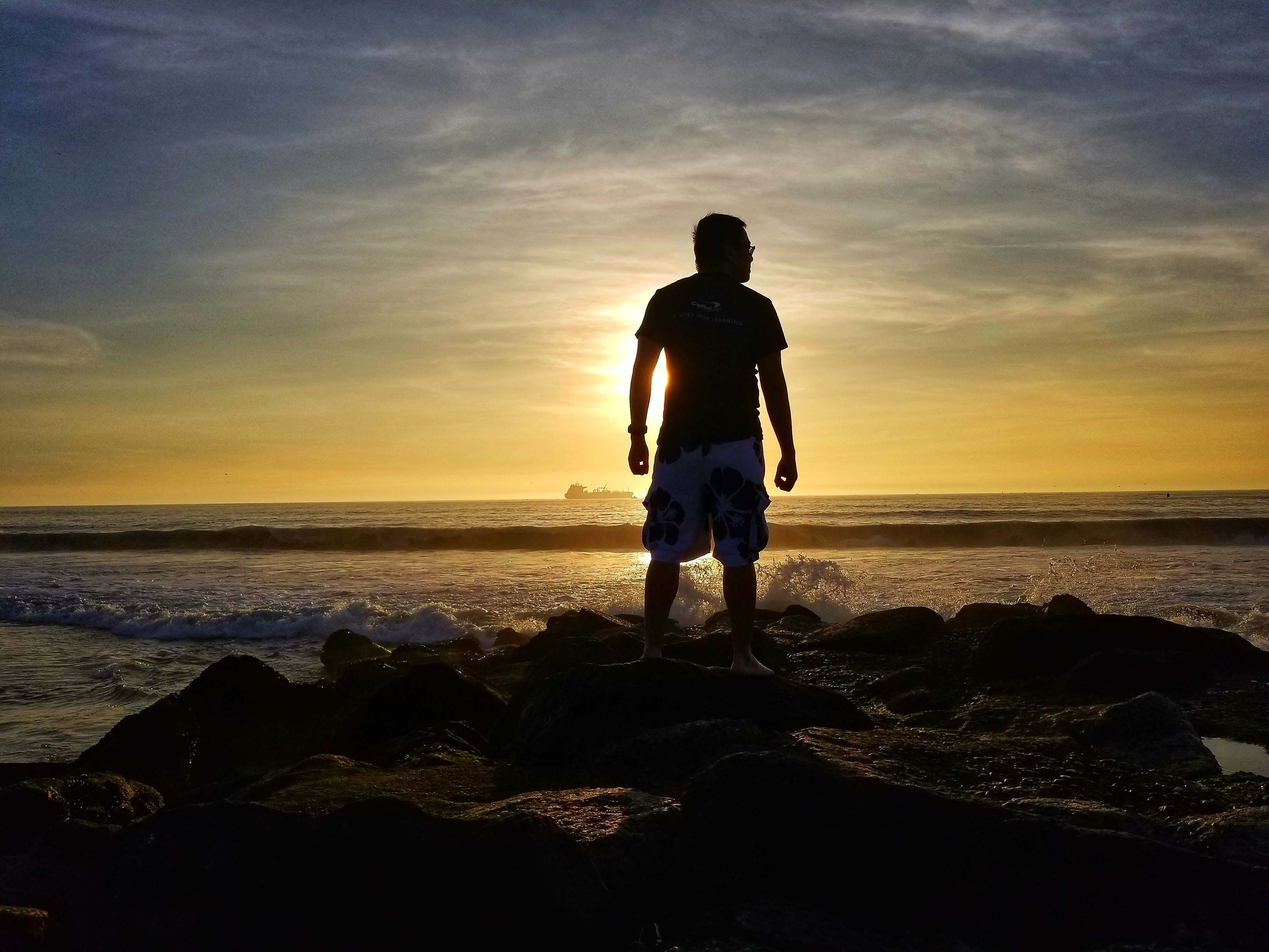
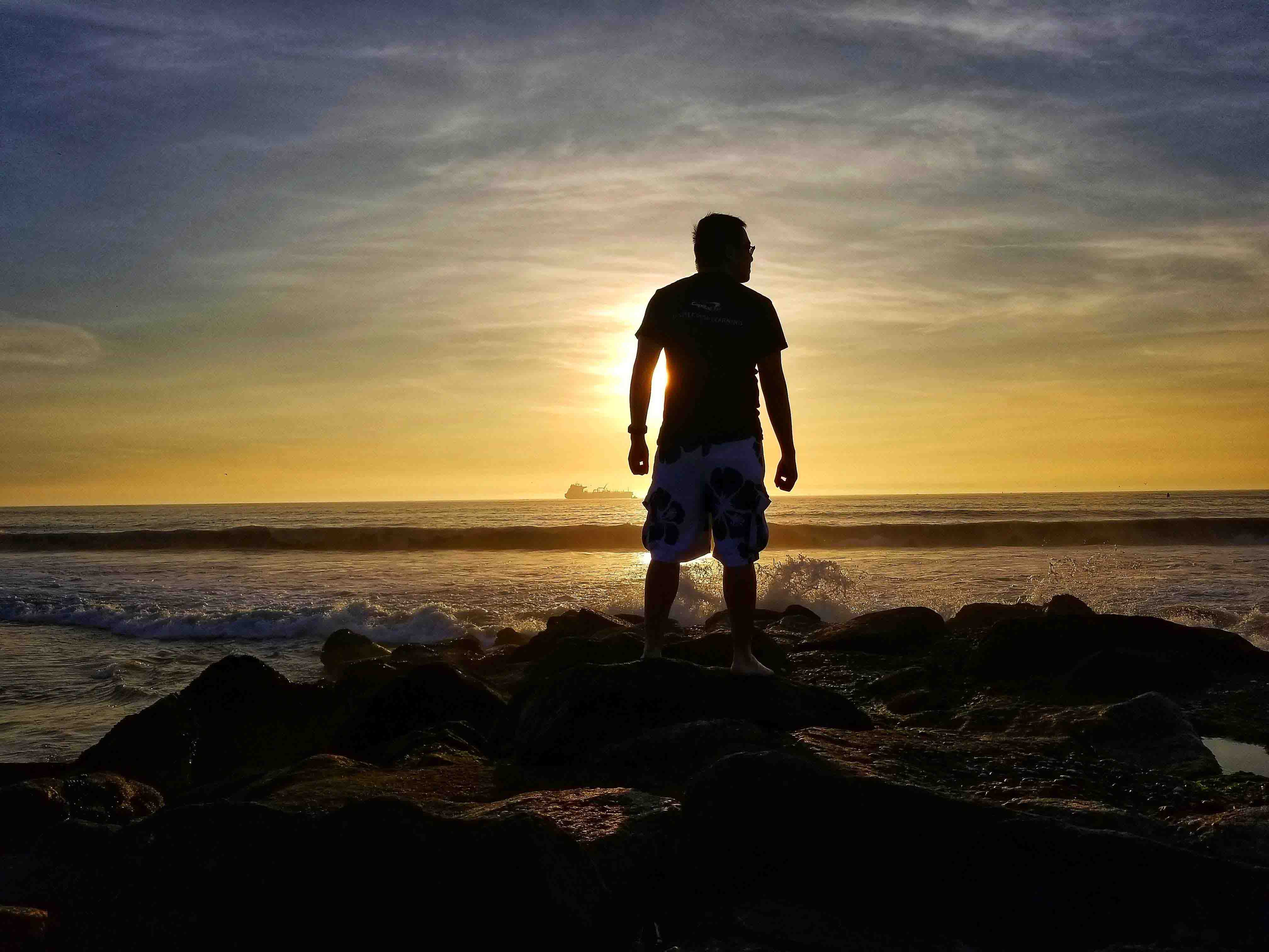
compress images

Changed region(s): [[0.5938, 0.5906, 0.625, 0.6217], [0.5312, 0.5906, 0.5625, 0.6217], [0.4688, 0.5906, 0.5, 0.6217]]

diff --git a/index.html b/index.html
@@ -60,7 +60,7 @@
         <ul class="nav navbar-nav navbar-right">
           <li class="active"><a href="#featured">Home</a></li>
           <li><a href="#about">About Me</a></li>
-          <li><a href="#projects">Projects</a></li>
+          <!-- <li><a href="#projects">Projects</a></li> -->
           <li><a href="#contact">Contact</a></li>
         </ul>        
       </div><!-- collapse navbar-collapse -->
@@ -143,13 +143,13 @@
   </div><!-- about page -->
 
 
-
+<!--
 
   <div class="page" id="projects">
     <div id="h2Title"><h2>PROJECTS</h2></div>
     <div id="h3Title"><h3>This section is currently under construction.</h3></div>
 
-
+-->
 
 
 
